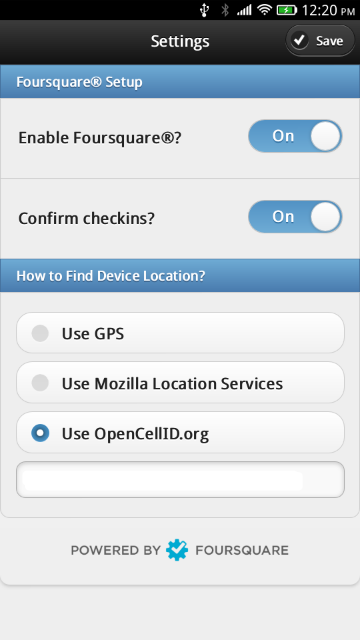
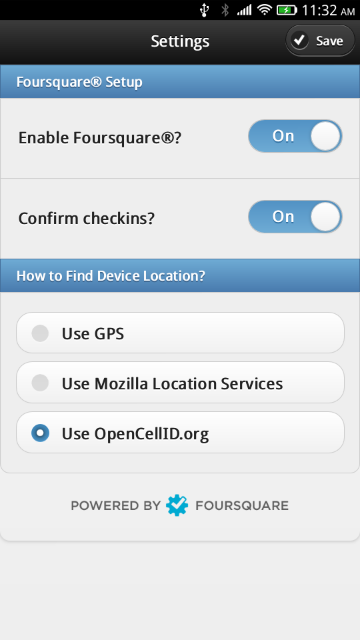
Updated README
Updated README to remove reference to need to enter OpenCellID API key,
now that it is hard-coded.

diff --git a/README.md b/README.md
@@ -34,8 +34,7 @@ You also have the option of having the app asking you for confirmation of each c
 Under "How to Find Device Location?" select either:
 
 * "Use GPS" (which is more accurate, but as the GPS can take time to establish a lock, can be slower)
-* "Use Mozilla Location Services" (which is less accurate, may have poor coverage for your area, but can be much faster than GPS; no signup or key required).
-* "Use OpenCellID.org" (which is less accurate, may have poor coverage for your area -- but likely better coverage than Mozilla Location Services, for now, but can be much faster than GPS; you need a free [OpenCellID.org API key](http://wiki.opencellid.org/wiki/Main_Page) for this service.).
+* "Use Mozilla Location Services"  or "Use OpenCellID.org" (which are less accurate, may have poor coverage for your area, but can be much faster than GPS and have less impact on battery life).
 
 When you return to the main screen, the app will establish your location and you'll be shown a list of nearby Foursquare venues; to checkin, just tap a venue, and optionally confirm your checkin. *That's it*.
 
